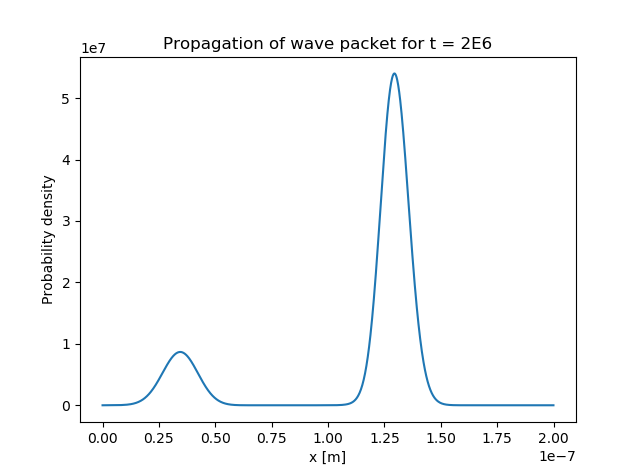
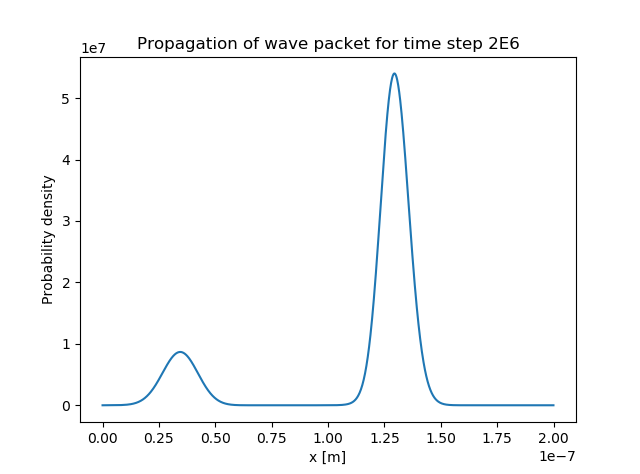
Fixed plot title, added two new figures

Changed region(s): [[0.2188, 0.0591, 0.8125, 0.1181]]

diff --git a/oppgave2.py b/oppgave2.py
@@ -112,7 +112,7 @@ if __name__ == '__main__':
             if counter == 1995000:
                 fig = plt.figure()
                 plt.plot(x_values, (phi_values * numpy.conj(phi_values)))
-                plt.title("Propagation of wave packet for t = 2E6")
+                plt.title("Propagation of wave packet for time step 2E6")
                 plt.xlabel("x [m]")
                 plt.ylabel("Probability density")
                 plt.show()
